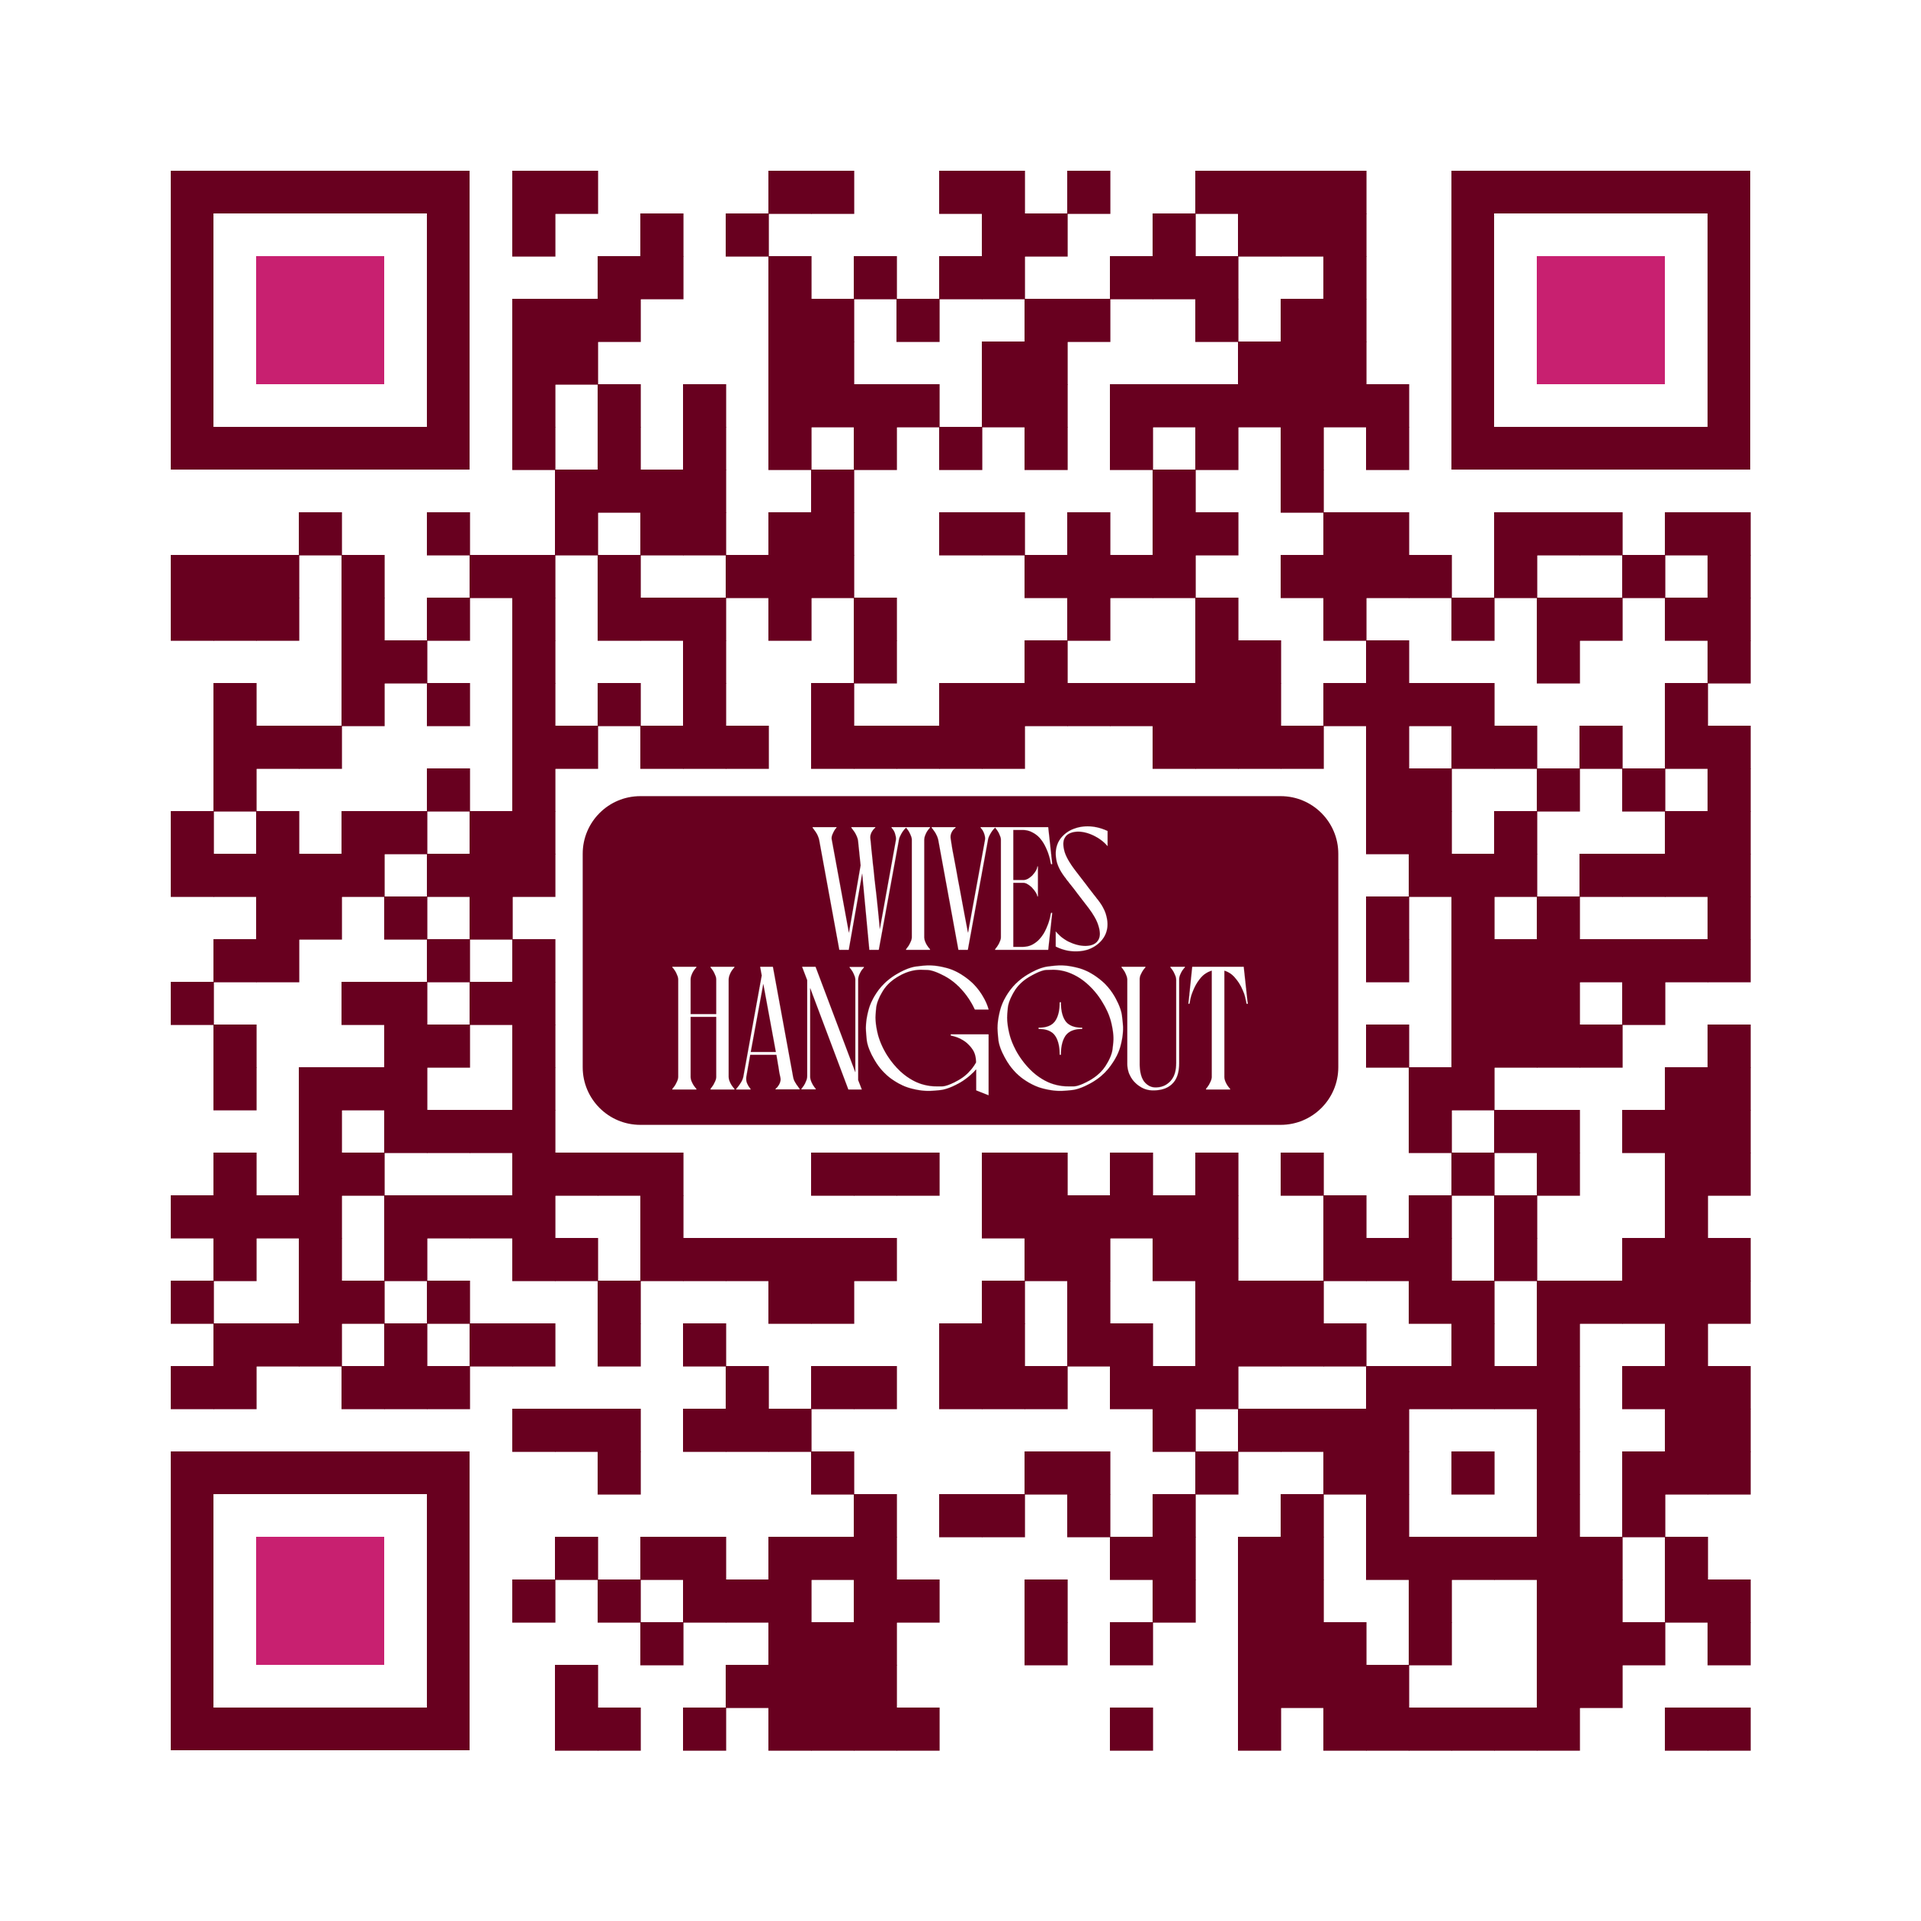
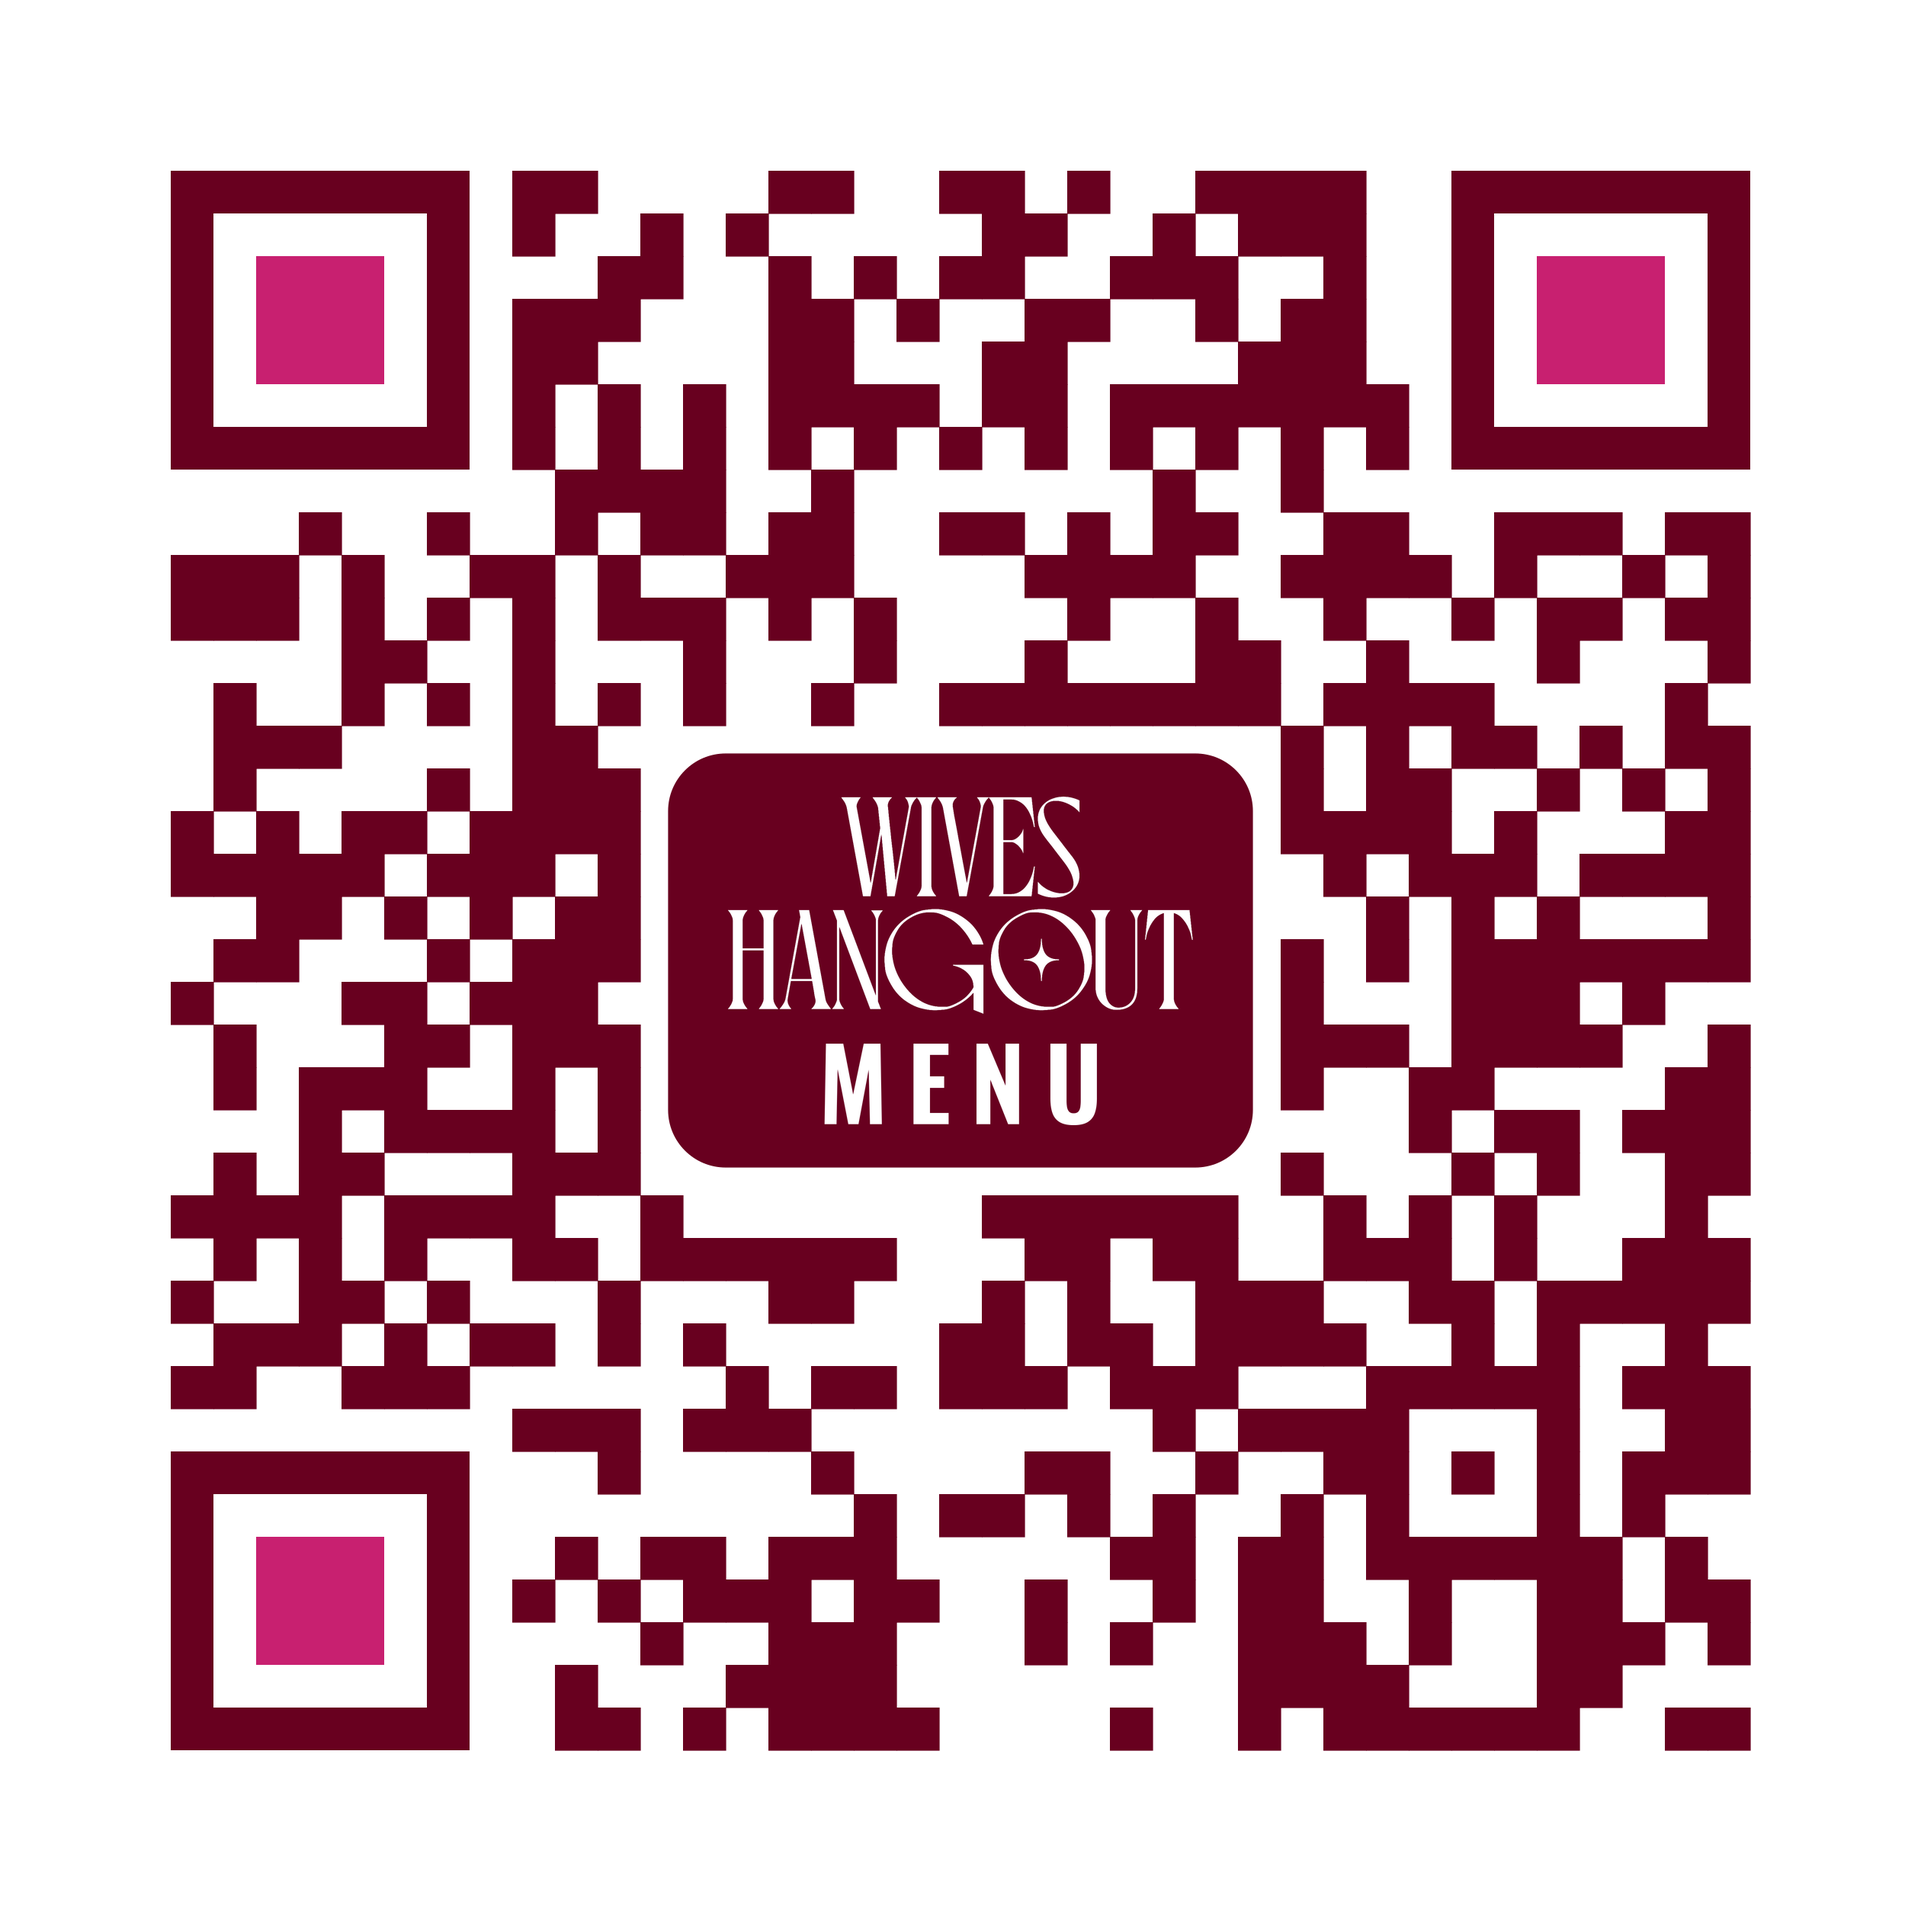
feat: meal selection closes 8 PM; menu QR reads WIVES HANGOUT MENU

Changed region(s): [[0.2786, 0.3714, 0.7119, 0.65]]

diff --git a/api/menu.test.ts b/api/menu.test.ts
@@ -45,15 +45,15 @@ describe('GET /api/menu', () => {
     expect(res.headers['cache-control']).toContain('s-maxage=3')
     expect(menuStatus).toHaveBeenCalledWith('wives-hangout-2026-dev')
   })
-  it('says closed after the closing time (default: 6 PM on the day)', async () => {
+  it('says closed after the closing time (default: 8 PM on the day)', async () => {
     process.env.MENU_CLOSES_AT = '2020-01-01T00:00:00+01:00'
     expect((await call(menu, 'GET')).body).toMatchObject({ state: 'closed' })
     delete process.env.MENU_CLOSES_AT
     vi.useFakeTimers({ toFake: ['Date'] })
     try {
-      vi.setSystemTime(new Date('2026-10-24T17:59:59+01:00'))
+      vi.setSystemTime(new Date('2026-10-24T19:59:59+01:00'))
       expect((await call(menu, 'GET')).body).toMatchObject({ state: 'open' })
-      vi.setSystemTime(new Date('2026-10-24T18:00:00+01:00'))
+      vi.setSystemTime(new Date('2026-10-24T20:00:00+01:00'))
       expect((await call(menu, 'GET')).body).toMatchObject({ state: 'closed' })
     } finally {
       vi.useRealTimers()

diff --git a/shared/event.ts b/shared/event.ts
@@ -18,9 +18,10 @@ export const EVENT = {
   theme: 'Marriage, Motherhood and Ministry',
   /** Shown under the hero as "POWERED BY: BIRTHING THE SEED" (builder request, 2026-10-10). */
   poweredBy: 'Birthing the Seed',
-  /** Meal selection at /menu (builder, 2026-10-23): opens on deploy, closes at 6 PM on the day.
-   *  MENU_OPENS_AT / MENU_CLOSES_AT env vars override these on the server. */
-  menuClosesAt: '2026-10-24T18:00:00+01:00',
+  /** Meal selection at /menu (builder, 2026-10-23): opens on deploy; closes 8 PM on the day (moved from 6 PM).
+   *  MENU_OPENS_AT / MENU_CLOSES_AT env vars override the server side. Keep the label in step (a test checks). */
+  menuClosesAt: '2026-10-24T20:00:00+01:00',
+  menuClosesLabel: 'Sat 24 Oct, 8:00 PM',
   /** For structured data (SEO). The end time isn't known, so the end is a date only. */
   schedule: { start: '2026-10-24T16:00:00+01:00', endDate: '2026-10-24' },
   /** City only, for structured data: the venue itself is not public. */

diff --git a/shared/menu.test.ts b/shared/menu.test.ts
@@ -1,4 +1,5 @@
 import { describe, expect, it } from 'vitest'
+import { EVENT } from './event.js'
 import { parseWho } from './menu.js'
 
 describe('parseWho', () => {
@@ -11,5 +12,13 @@ describe('parseWho', () => {
   })
   it('rejects anything else', () => {
     for (const bad of ['', '123', 'funmi@', 'Funmilayo', 42, null]) expect(parseWho(bad)).toBeNull()
+  })
+})
+
+describe('menu closing time', () => {
+  it('the label on the page matches the time the server enforces (Lagos time)', () => {
+    const fmt = (opts: Intl.DateTimeFormatOptions) => new Intl.DateTimeFormat('en-US', { timeZone: 'Africa/Lagos', ...opts }).format(new Date(EVENT.menuClosesAt))
+    expect(EVENT.menuClosesLabel).toContain(fmt({ hour: 'numeric', minute: '2-digit' })) // "8:00 PM"
+    expect(EVENT.menuClosesLabel).toContain(`${fmt({ day: 'numeric' })} ${fmt({ month: 'short' })}`) // "24 Oct"
   })
 })

diff --git a/src/menu/MenuPage.tsx b/src/menu/MenuPage.tsx
@@ -126,7 +126,7 @@ export function MenuPage() {
           <Sparkle size={22} className="mx-auto text-magenta" />
           <h1 className="mt-2 font-display text-h1 font-semibold text-burgundy">Choose your meal</h1>
           <p className="mt-1 font-text text-lead text-muted">One plate per person, and you can't change it after.</p>
-          <p className="mt-1 font-text text-small text-muted">Choosing closes Sat 24 Oct, 6:00 PM.</p>
+          <p className="mt-1 font-text text-small text-muted">Choosing closes {EVENT.menuClosesLabel}.</p>
         </div>
 
         {state === 'closed' && <Banner text="Meal selection has closed. Please speak to a host." />}

diff --git a/CLAUDE.md b/CLAUDE.md
@@ -37,7 +37,7 @@ Vite + React 19 + TypeScript + Tailwind CSS 4 (pre-rendered at build, then hydra
 - **CSP:** scripts `'self'` only; inline styles allowed (inlined CSS).
 - `og:image` is `og.jpg?v=<content hash>` (vite.config.ts) because Facebook/WhatsApp cache by URL.
 - No secrets in `VITE_` variables.
-- **Meal selection (`/menu`, migration 003):** registrants find themselves by registered phone OR email (`shared/menu.ts` `parseWho`), see the 12 dishes with live counts (`GET /api/menu`, CDN-cached 3s, polled every 5s), and choose once (`POST /api/menu-choose` → `choose_meal()`: one row per registration in `meal_choices`, atomic `remaining - 1`, 4-char code). Deleting a choice puts the plate back (trigger). Window: open on deploy until `EVENT.menuClosesAt` (2026-10-24 18:00 WAT; `MENU_OPENS_AT`/`MENU_CLOSES_AT` override). Sheet tabs "Meals" and "Meal totals" are snapshots (`syncMeals`, own trigger). Lookup returns the name only; no list of names is ever shown.
+- **Meal selection (`/menu`, migration 003):** registrants find themselves by registered phone OR email (`shared/menu.ts` `parseWho`), see the 12 dishes with live counts (`GET /api/menu`, CDN-cached 3s, polled every 5s), and choose once (`POST /api/menu-choose` → `choose_meal()`: one row per registration in `meal_choices`, atomic `remaining - 1`, 4-char code). Deleting a choice puts the plate back (trigger). Window: open on deploy until `EVENT.menuClosesAt` (2026-10-24 20:00 WAT, label `EVENT.menuClosesLabel`; `MENU_OPENS_AT`/`MENU_CLOSES_AT` override). Sheet tabs "Meals" and "Meal totals" are snapshots (`syncMeals`, own trigger). Lookup returns the name only; no list of names is ever shown.
 - **The venue is private until registration** (Pastor's request). It lives only in `api/_lib/venue.ts` (server only) and reaches people via `/api/register`'s 201 reply (success screen) and the email. Never put it in `shared/`, `src/`, `index.html` or the JSON-LD (city only). `api/_lib/venue.test.ts` and `scripts/smoke.mjs` fail if it leaks into the page.
 
 ## Visual identity

diff --git a/docs/ADMIN_GUIDE.md b/docs/ADMIN_GUIDE.md
@@ -88,8 +88,8 @@ node --env-file=.env.local scripts/export-registrations.mjs --event wives-hangou
 
 ## 9. Meal selection (/menu)
 
-- **Link:** https://wives-hangout.vercel.app/menu · **Table QR:** `docs/launch/wives-hangout-menu-qr.png`
-- **Open from the evening of 23 October until 6:00 PM on Saturday 24 October.** After that the page says "Meal selection has closed".
+- **Link:** https://wives-hangout.vercel.app/menu · **Table QR:** `docs/launch/wives-hangout-menu-qr.png` (centre reads "WIVES HANGOUT MENU", so it can't be confused with the registration QR)
+- **Open from the evening of 23 October until 8:00 PM on Saturday 24 October** (moved from 6 PM). After that the page says "Meal selection has closed".
 - **How it works:** she types the **phone number or email she registered with**, sees "Hi, [first name]!", taps a dish and confirms. The count drops at once (two people can never get the last plate). **One meal per person, no changes.** A pop-up shows her name, the dish and a 4-character **code**, and asks her to **take a screenshot** for the server.
 - **Servers check the screenshot** against the Sheet's **Meals** tab (name, phone, dish, code). The **Meal totals** tab shows each dish's quantity, chosen and remaining, for the kitchen. Both refresh every 5 minutes, or via **Wives Hangout → Sync meals now**.
 - **She can't find herself:** she can try the other one (phone or email). If neither works (e.g. she mistyped both at registration), a host serves her manually. The same goes for guests, ministers and volunteers who didn't register.

diff --git a/docs/PROGRESS.md b/docs/PROGRESS.md
@@ -162,3 +162,8 @@
 
 ## 2026-10-23 · Meal selection LIVE
 - Builder re-pasted Code.gs + ran installTrigger; pushed main. `/menu` live: smoke 13/13 (menu open with 12 dishes; registration still closed, register returns 403). Live lookup of an unregistered number returns `not_found`. Venue absent from all 7 live scripts. Closes 2026-10-24 18:00 WAT.
+
+## 2026-10-23 · Menu closes 8 PM; menu QR relabelled
+- `EVENT.menuClosesAt` → 2026-10-24T20:00+01:00 (was 18:00), with `menuClosesLabel` "Sat 24 Oct, 8:00 PM" shown on /menu; a test checks the label matches the enforced time (Lagos). Endpoint test moved to 19:59:59 open / 20:00 closed.
+- Menu QR centre now reads "WIVES HANGOUT MENU" (title lettering + Oswald "MENU"; source `docs/launch/menu-qr-centre.png`), so it differs from the registration QR. Same URL (/menu); decoded at 140–2520px + phone-photo copy.
+- Testing tip recorded: a test choice is reset in the database (delete from meal_choices), not the Sheet; the Sheet tab is rewritten every 5 minutes.
